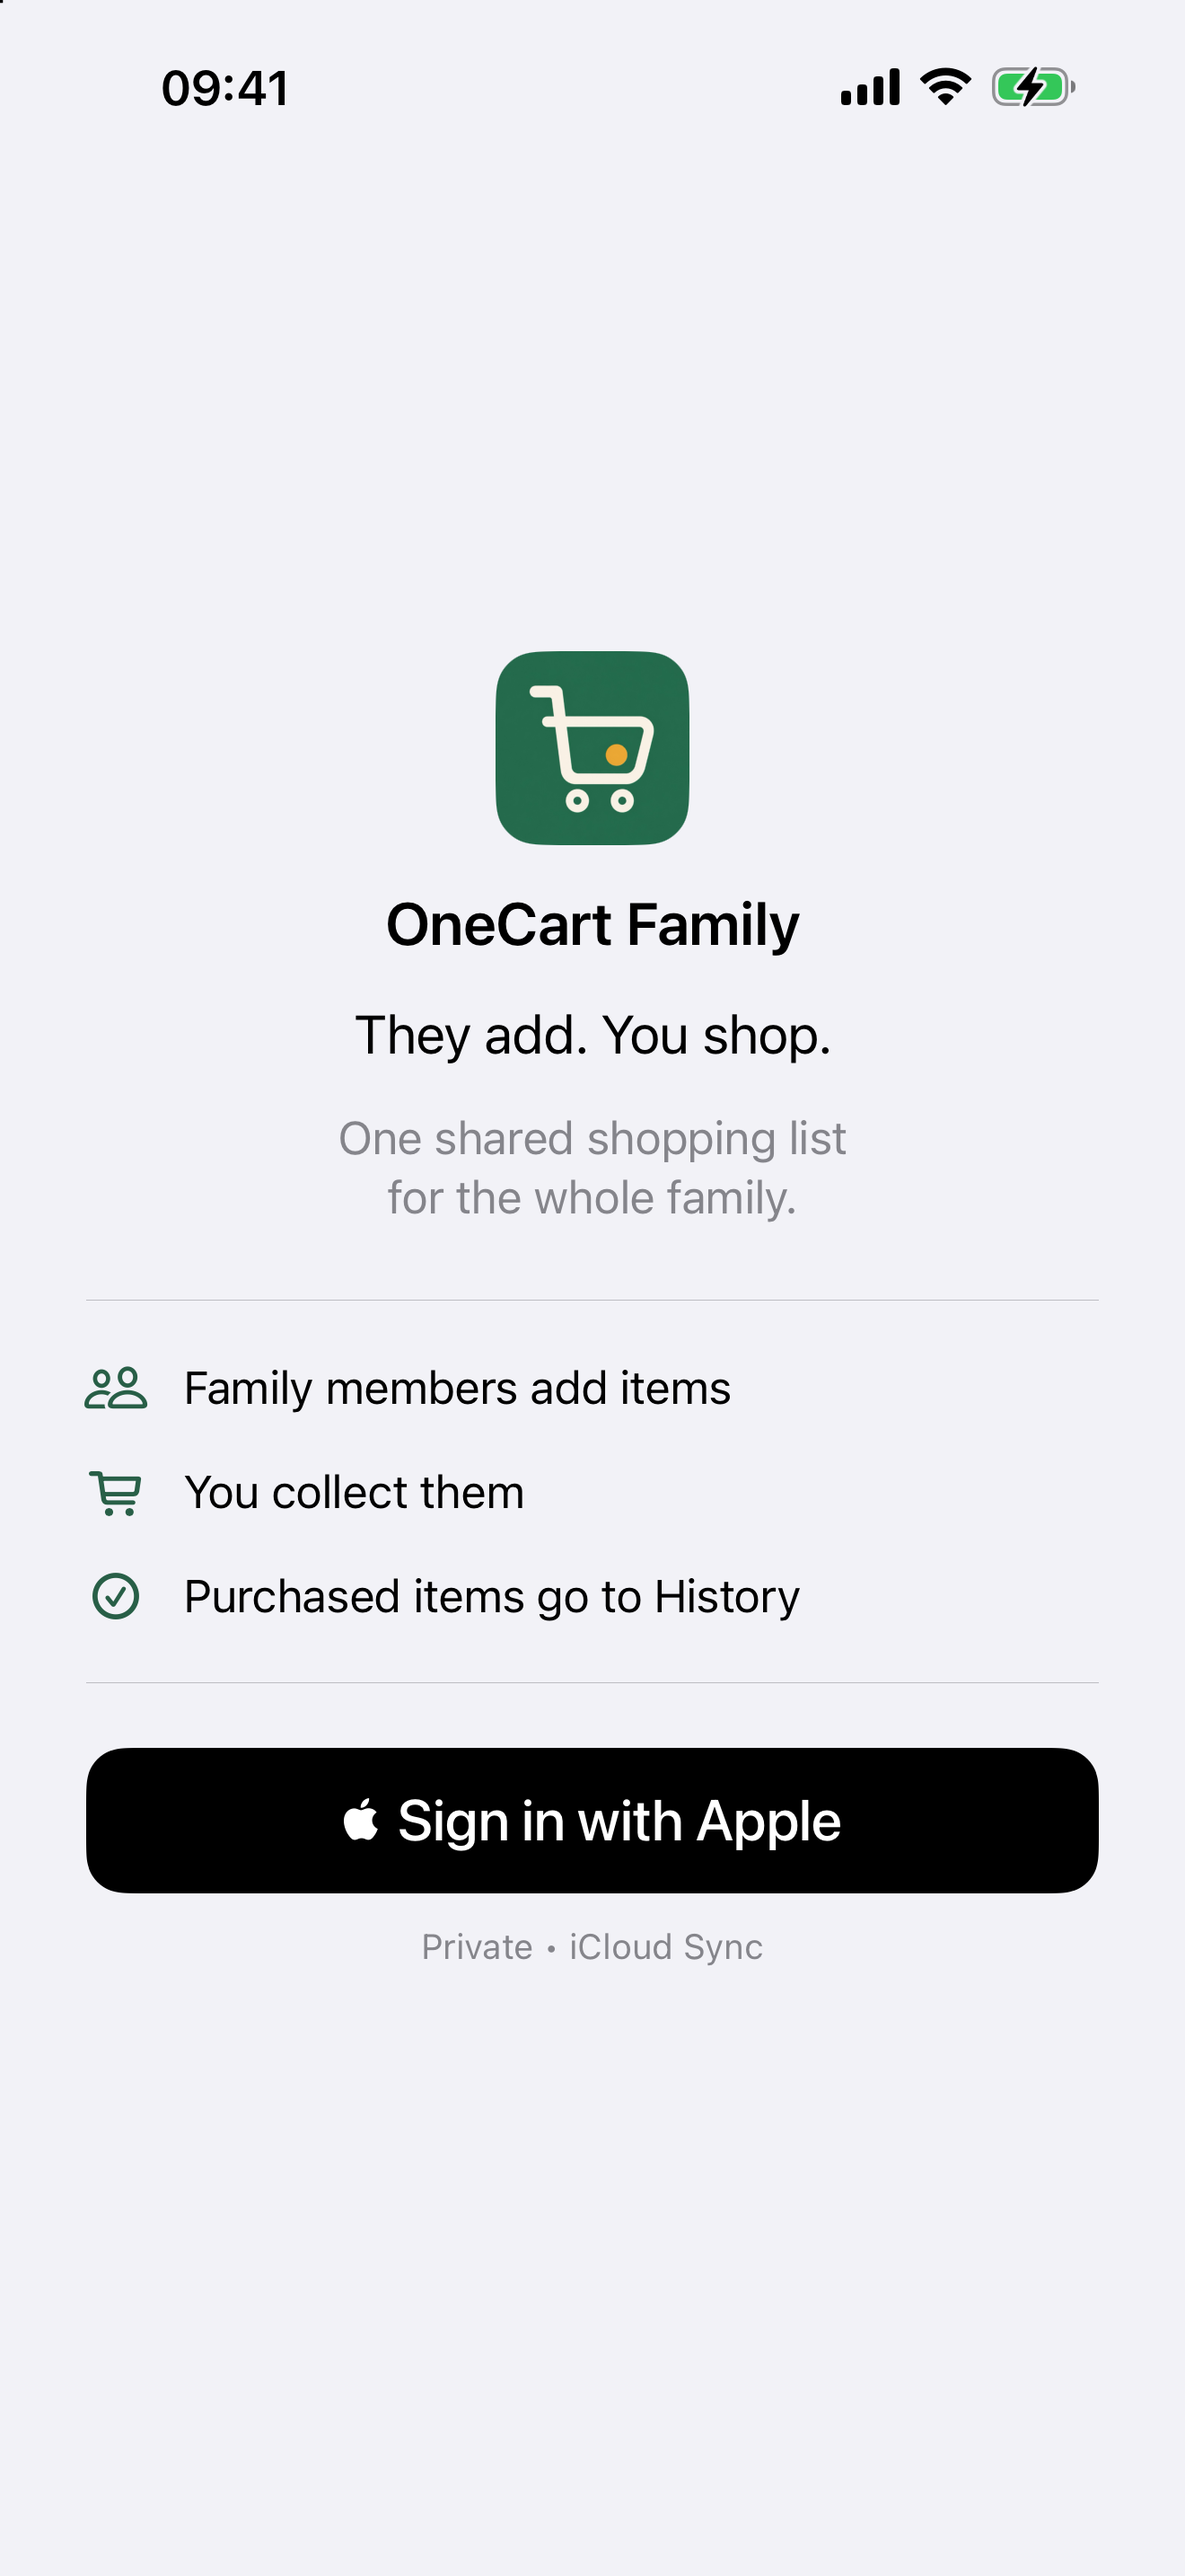
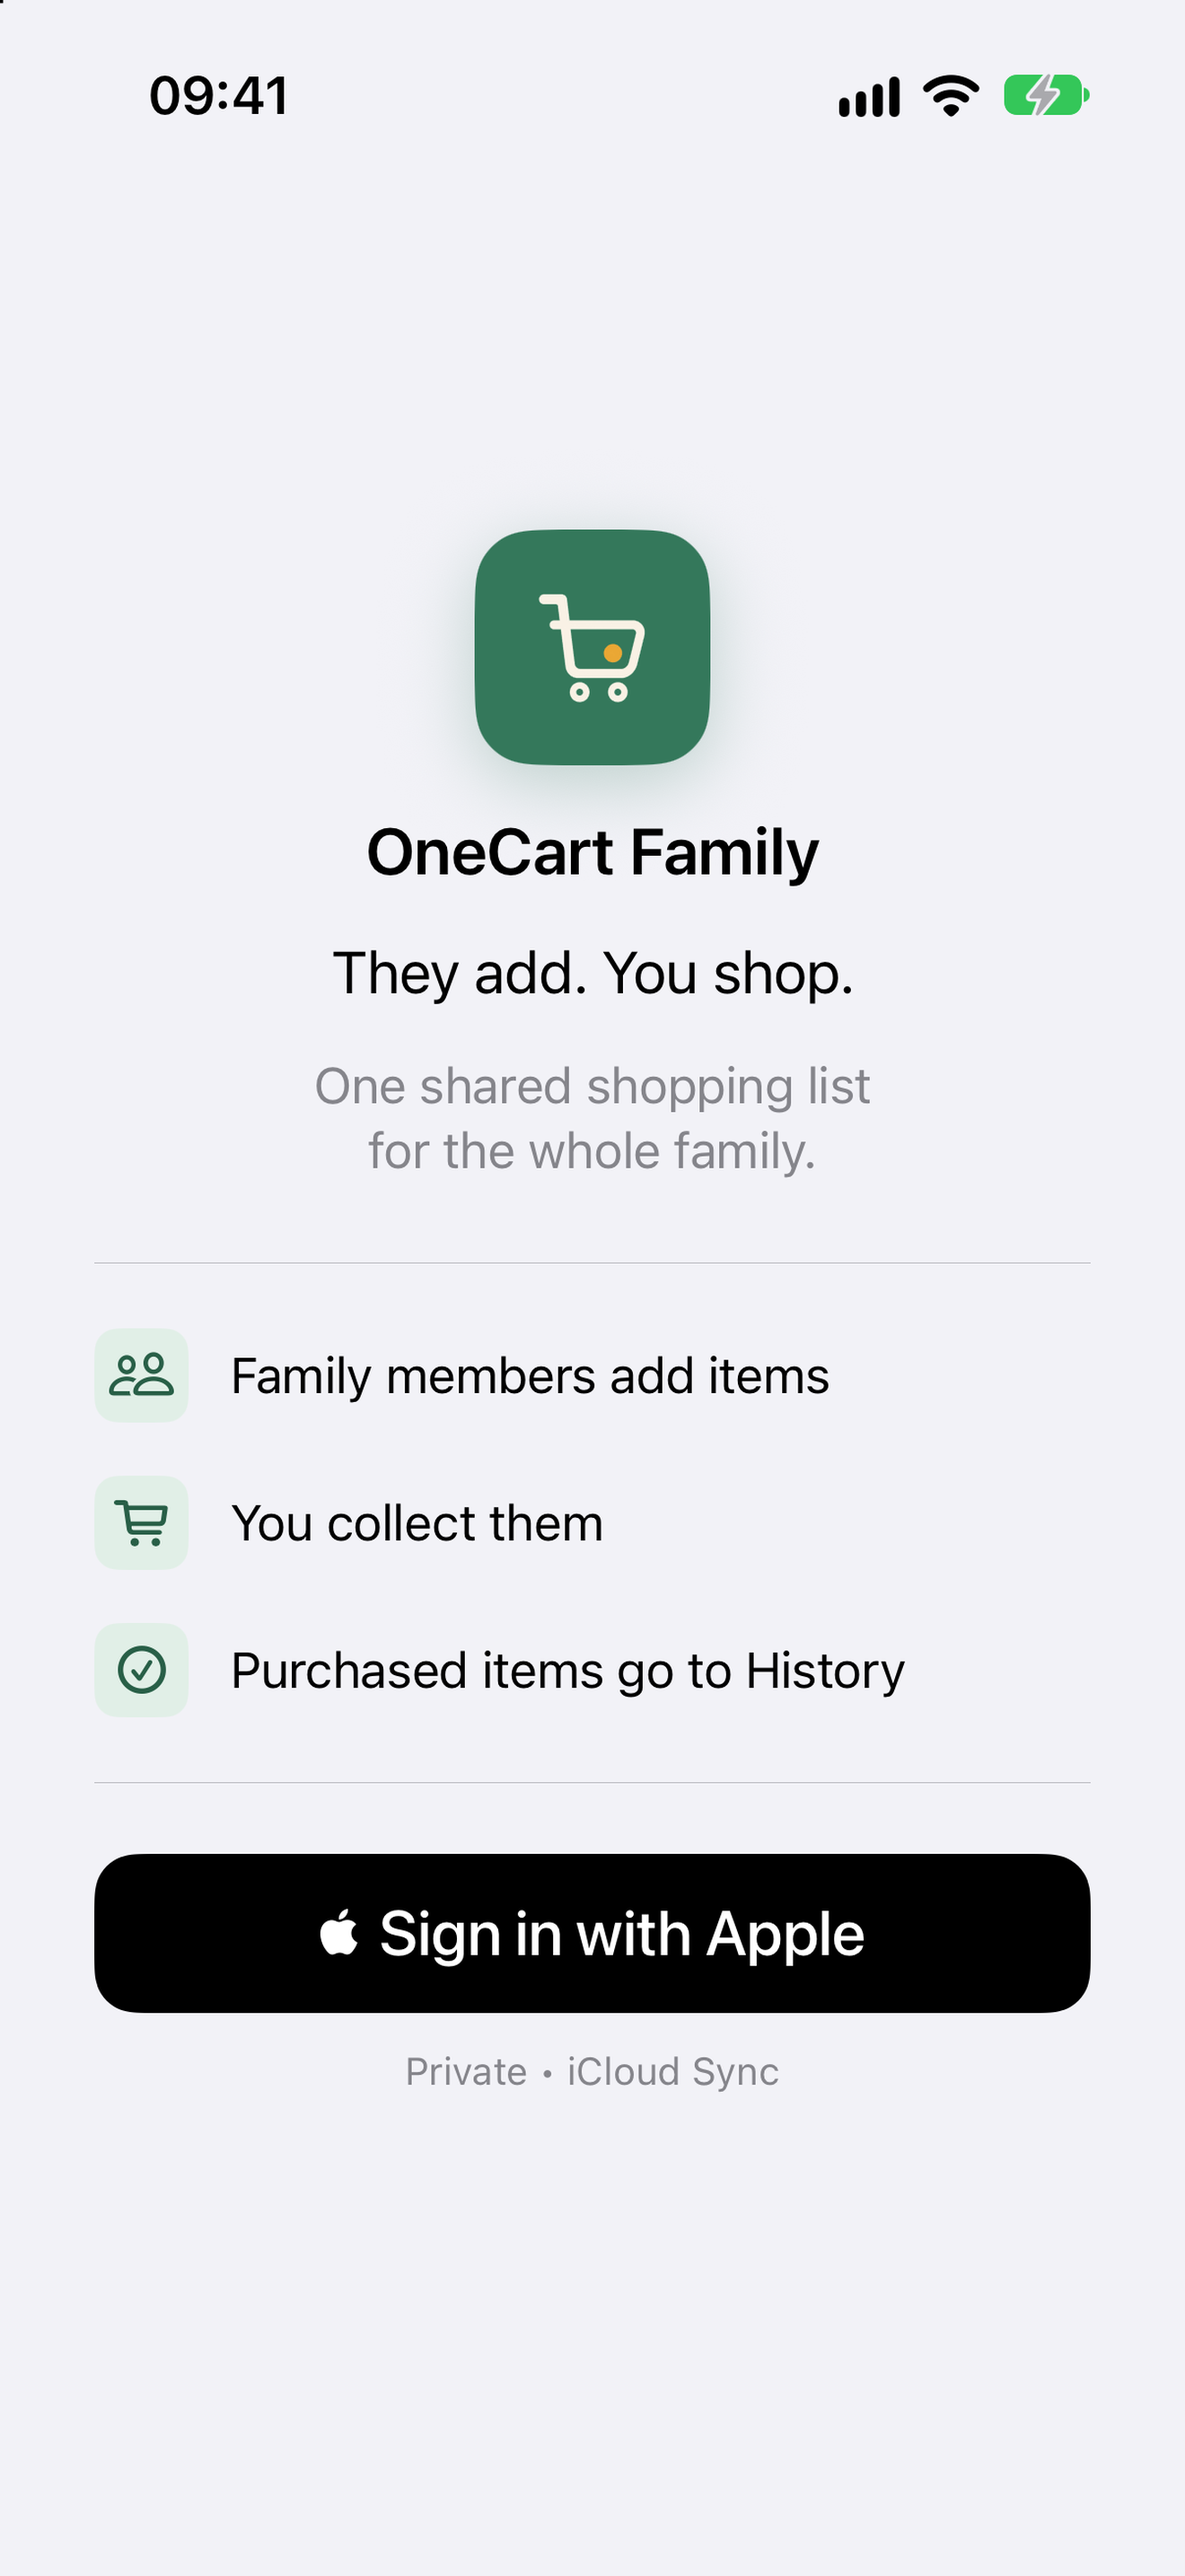
chore(store): replace App Store screenshots with the iOS 27 set
The 6.9-inch screenshots dated from 1.0 and showed the pre-redesign UI.
The new set covers welcome, cart, history and settings in English
(screenshots/asc-6.9/, same file names, so the README images update)
and Russian (screenshots/asc-6.9/ru/), captured from the demo UI on the
session simulator and scaled to 1320 x 2868. The outdated 6.5-inch set
and its raw captures are removed. assets/store/README.md records how
the set is made; it is for the version record after 1.5.0, which was
submitted with the old screenshots.

Validation: all eight images checked visually (no system prompts, status
bar 09:41, localized text and data); sizes verified with sips.

diff --git a/assets/store/README.md b/assets/store/README.md
@@ -8,29 +8,27 @@ repository and attaches it under App Review Information.
 
 ## App Store Connect: iPhone 6.9" (1320 × 2868)
 
-Current set, light theme, English (app `developmentRegion = en`). The repository
-README shows these files.
+Current set for the next version after 1.5.0, light theme, captured on 2026-09-21 from the
+iOS 27 redesign. English files are in `screenshots/asc-6.9/` (the repository README shows
+them); Russian files with the same names are in `screenshots/asc-6.9/ru/`. Version 1.5.0 was
+submitted with the older 1.0-era set, so these replace it in the next version record.
 
-| # | File in `screenshots/asc-6.9/` | Screen |
-|---|--------------------------------|--------|
+| # | File | Screen |
+|---|------|--------|
 | 1 | `01-welcome.png` | Welcome + Sign in with Apple |
 | 2 | `02-cart.png` | Cart |
 | 3 | `03-history.png` | History |
 | 4 | `04-settings.png` | Settings |
 
-## App Store Connect: iPhone 6.5" (1284 × 2778)
+How the set is made (Debug build, `just run-sim`, the session's own simulator):
 
-Earlier capture of the same four screens (`01-welcome.png` … `04-account.png`) in both
-themes. It predates the Settings tab and the Completed section; recapture before
-uploading it again.
-
-Folders: [`screenshots/asc-6.5/dark/`](screenshots/asc-6.5/dark/),
-[`screenshots/asc-6.5/light/`](screenshots/asc-6.5/light/). Raw simulator captures:
-[`screenshots/raw/`](screenshots/raw/) (`en-*`).
-
-The 6.5" set was captured with sim language `en`, status bar 09:41, iPhone 16 Plus → resized to **1284 × 2778**.
-
-Demo launch args:
-
-- Owner (default): `-oneCartDemoUI` and optional `-oneCartDemoTab cart|history|account`
-- Guest / member of someone else’s cart: `-oneCartDemoUI -oneCartDemoRole member` (Sam on **Alex's Cart**, Leave / no Rename / no Revoke)
+- Device iPhone 17 on iOS 27 (1206 × 2622), scaled to 1320 × 2868; the aspect ratios
+  differ by less than 0.1 %.
+- Status bar 09:41, full battery (`xcrun simctl status_bar … override`).
+- Launch arguments `-AppleLanguages (en|ru) -AppleLocale en_US|ru_RU -oneCartDemoUI` plus
+  `-oneCartDemoRole welcome` for the welcome screen, or `-oneCartDemoRole owner -oneCartDemoTab
+  cart|history|account`. The demo UI hides the Debug-only test-account button and seeds items in
+  the device language, so reinstall the app before switching languages.
+- Allow the notification prompt once after each install; it appears a few seconds after launch.
+- Guest / member of someone else's cart: `-oneCartDemoUI -oneCartDemoRole member` (Sam on
+  **Alex's Cart**, Leave / no Rename / no Revoke).
